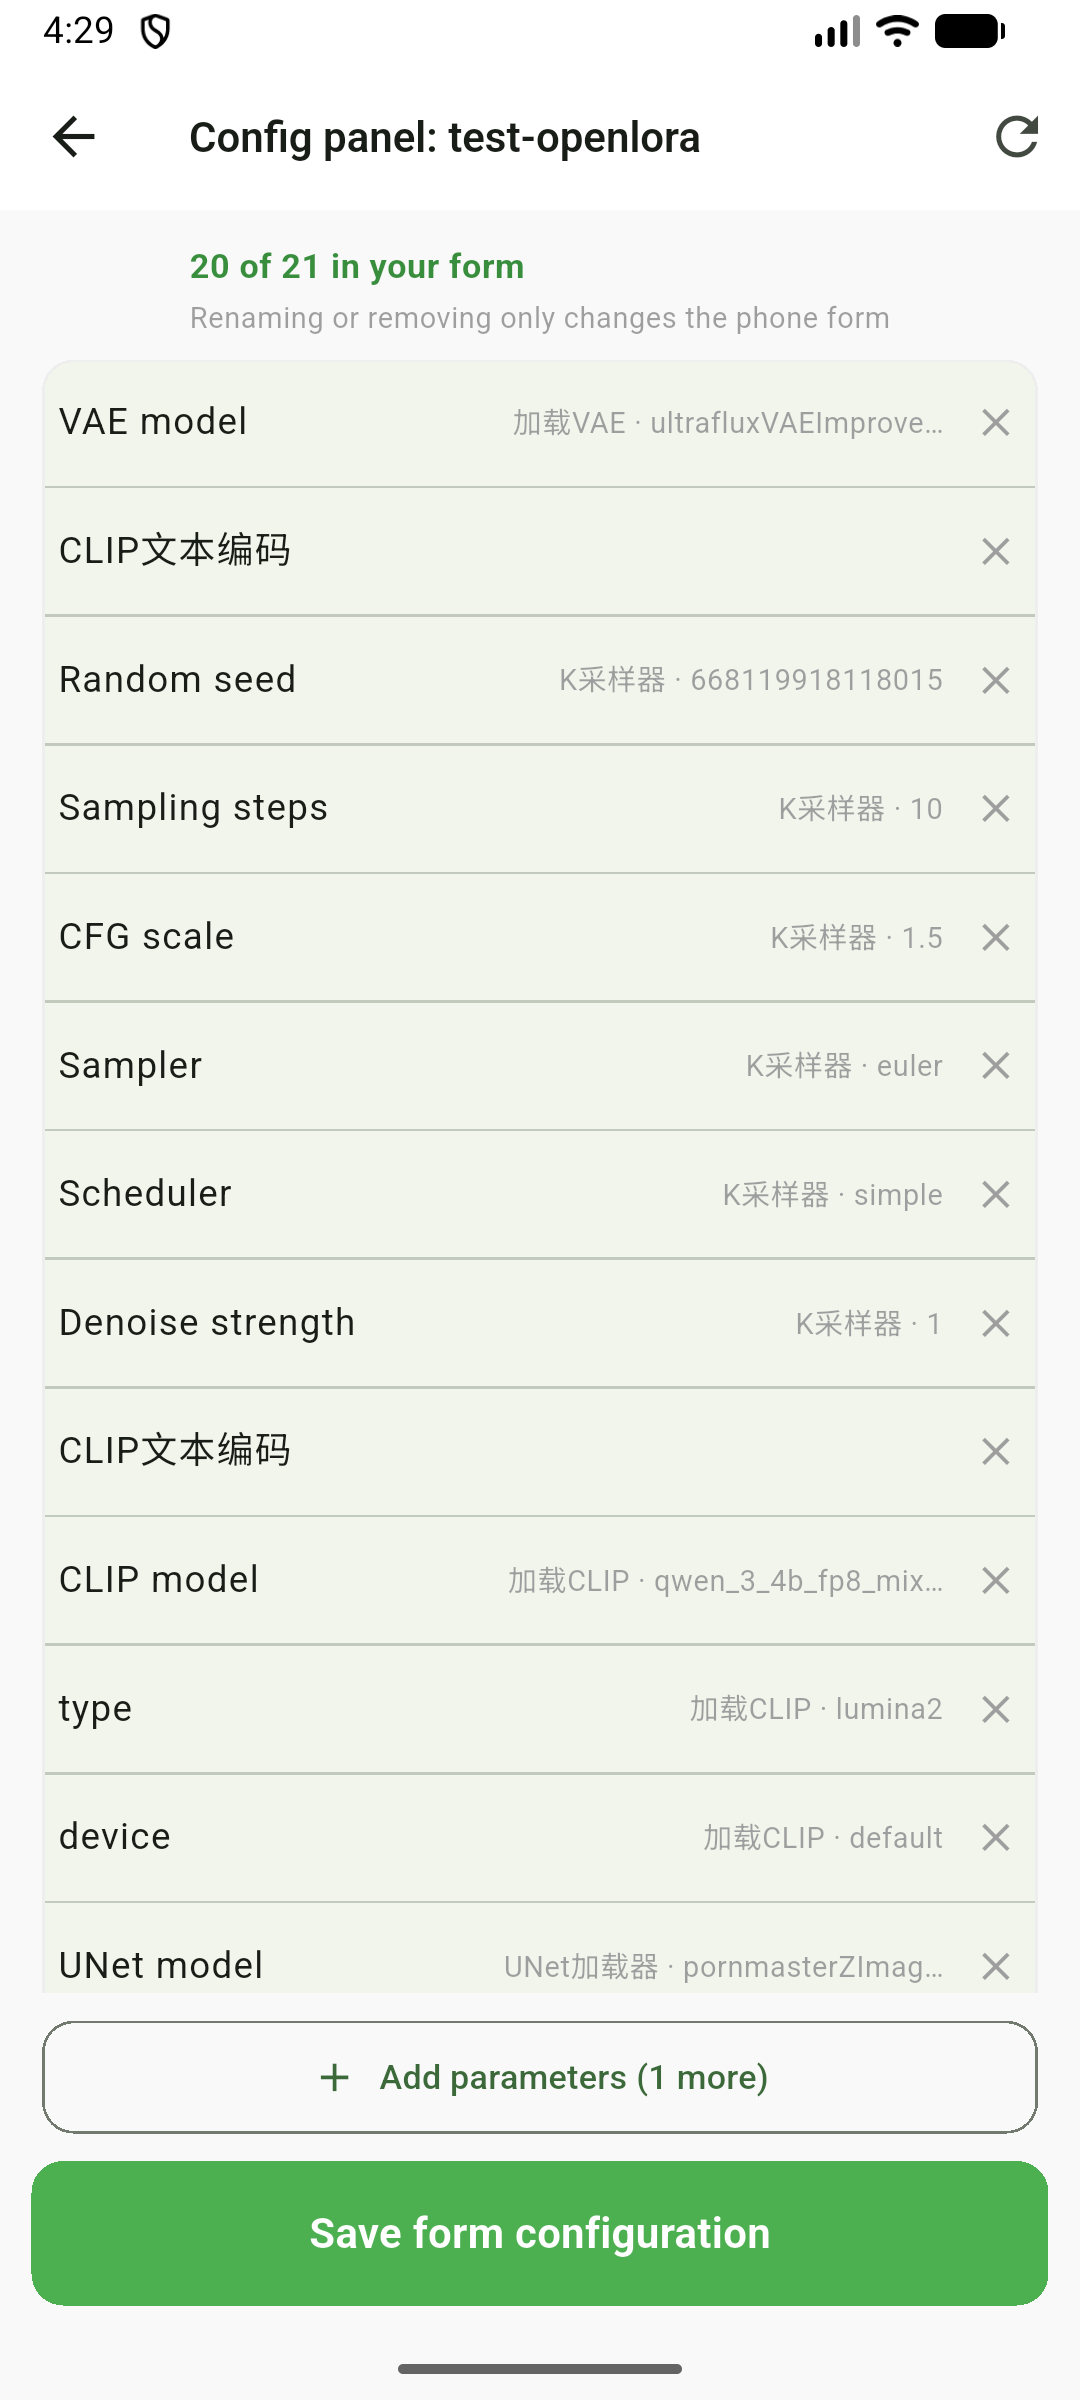
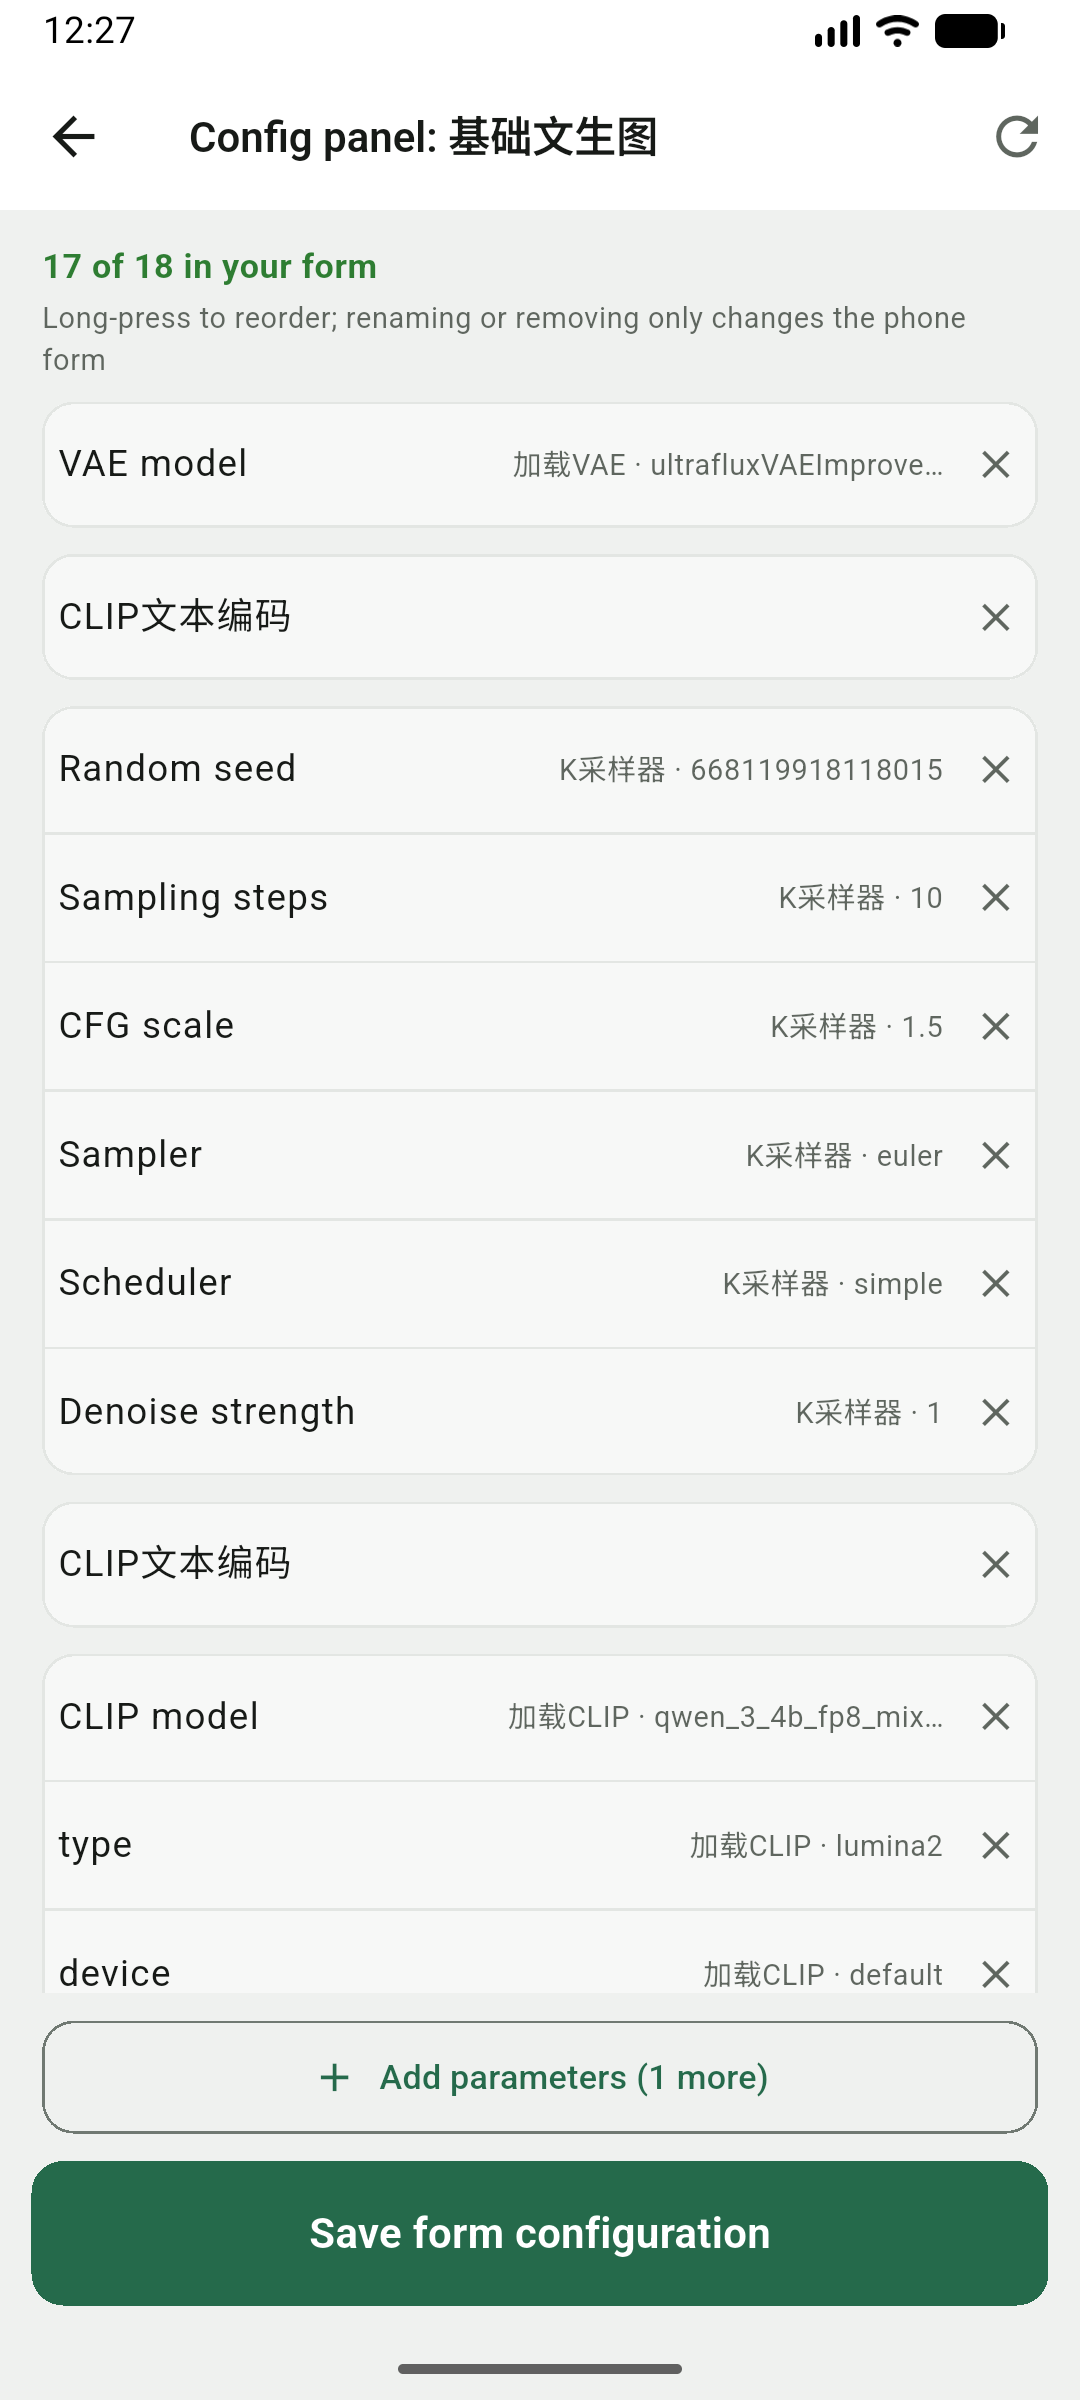
docs: 重截首页/配置页/运行页/设置页与深色截图（1.4.1 实机）
模拟器上的旧包是 1.3.3，先用当前代码构建 debug 包覆盖安装（versionName 1.4.1），
再按实际界面重截：

- 01-workflows / 03-config / 10-settings：中英各一套（配置页能看到按节点分段、
  「长按可拖动排序」提示与添加参数入口；设置页是三段结构）
- 02-run：改为能体现图片参数卡（图左操作右、来源标签、从服务器选）的画面
- 13-language：语言弹窗已标当前项
- 新增 18-dark：深色外观下的工作流列表，中英各一张，补进 5.9「关于外观」

未重截：04-config-picker 与 05-09、11-12、14（仍是旧配色），AI 两张按约定留占位。

diff --git a/README_EN.md b/README_EN.md
@@ -374,7 +374,7 @@ Two boundaries: **image upload parameters deliberately do not fetch** (they woul
   <img src="docs/screenshots/en/02-run.png" width="45%" />
 </p>
 
-<p align="center"><i>Run page: controls rendered by type, with "Generate" pinned at the bottom</i></p>
+<p align="center"><i>Run page: one card per node, paired parameters two per row; image parameters are an "image left, actions right" card, with "Generate" and AI pinned at the bottom</i></p>
 
 ### 5.5 Task tracking
 
@@ -516,6 +516,12 @@ The same reference rail sits at the bottom (the images fed into that generation)
 - Follows the system by default, or can be pinned to light / dark; the choice is stored locally too.
 - Dark mode isn't an inversion of light: the whole semantic palette (cards, borders, state colours, input fields) is defined separately, and the launch background follows it so the app never flashes white before turning dark.
 - The one exception is the image viewer, which stays pure black regardless of theme.
+
+<p align="center">
+  <img src="docs/screenshots/en/18-dark.png" width="45%" />
+</p>
+
+<p align="center"><i>The workflow list in dark mode (same layout, different palette)</i></p>
 
 **About haptic feedback**
 

diff --git a/README.md b/README.md
@@ -374,7 +374,7 @@ flowchart LR
   <img src="docs/screenshots/zh/02-run.png" width="45%" />
 </p>
 
-<p align="center"><i>运行页：按类型渲染控件，底部固定「立即生成」</i></p>
+<p align="center"><i>运行页：按节点分卡、成对参数两列；图片参数是「图左操作右」的卡片，底部固定「立即生成」与 AI</i></p>
 
 ### 5.5 任务跟踪
 
@@ -516,6 +516,12 @@ stateDiagram-v2
 - 默认跟随系统，也可以锁定浅色 / 深色，选择同样记在本地。
 - 深色不是把浅色反一下：整套语义色（卡片、边框、状态色、输入框）都单独定过；冷启动底色也跟着明暗走，不会先闪白再变深。
 - 唯一的例外是看图页：全屏查看器固定纯黑底，跟主题无关。
+
+<p align="center">
+  <img src="docs/screenshots/zh/18-dark.png" width="45%" />
+</p>
+
+<p align="center"><i>深色外观下的工作流列表（同一页，不换布局只换色板）</i></p>
 
 **关于震动反馈**
 
